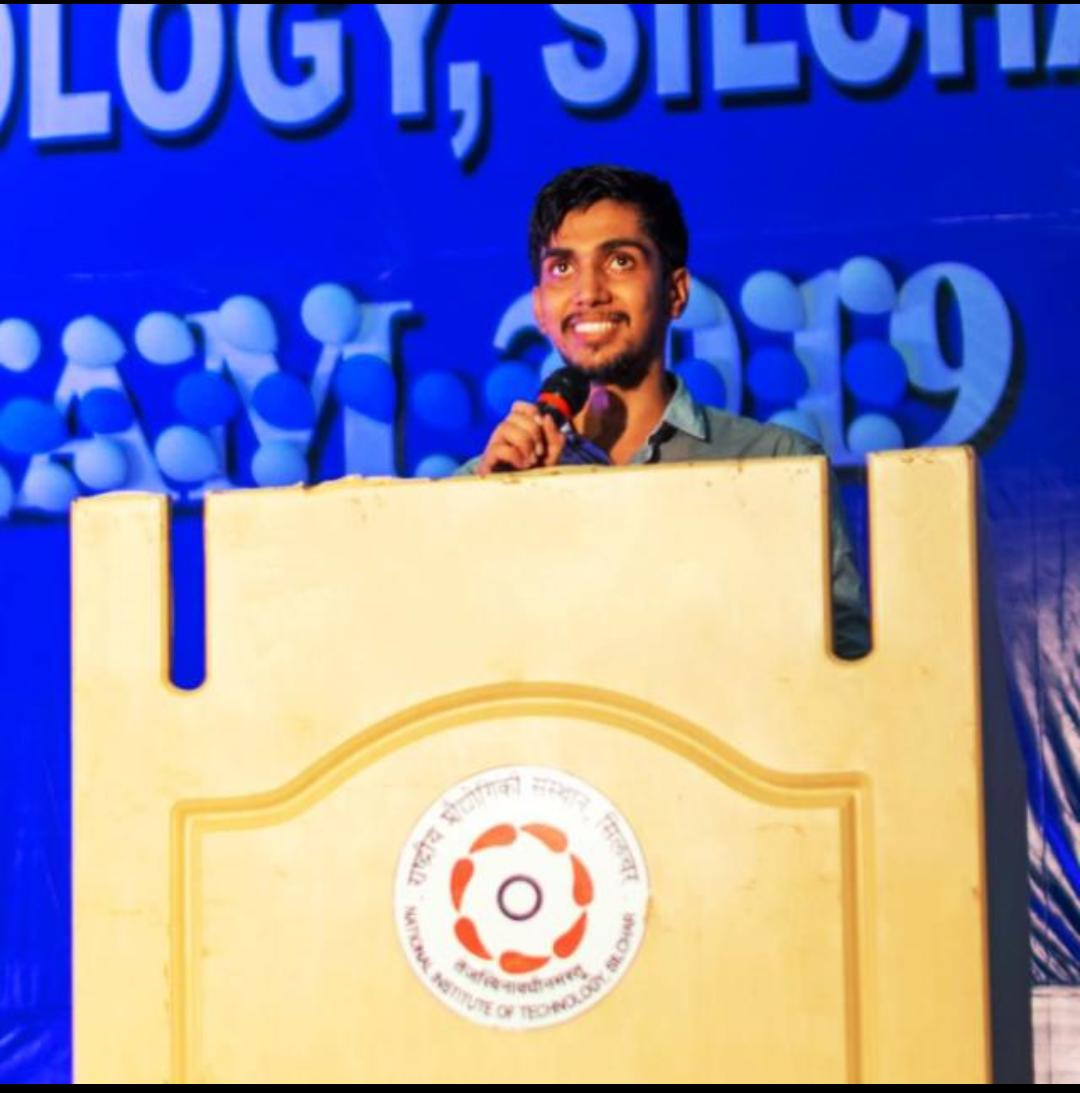
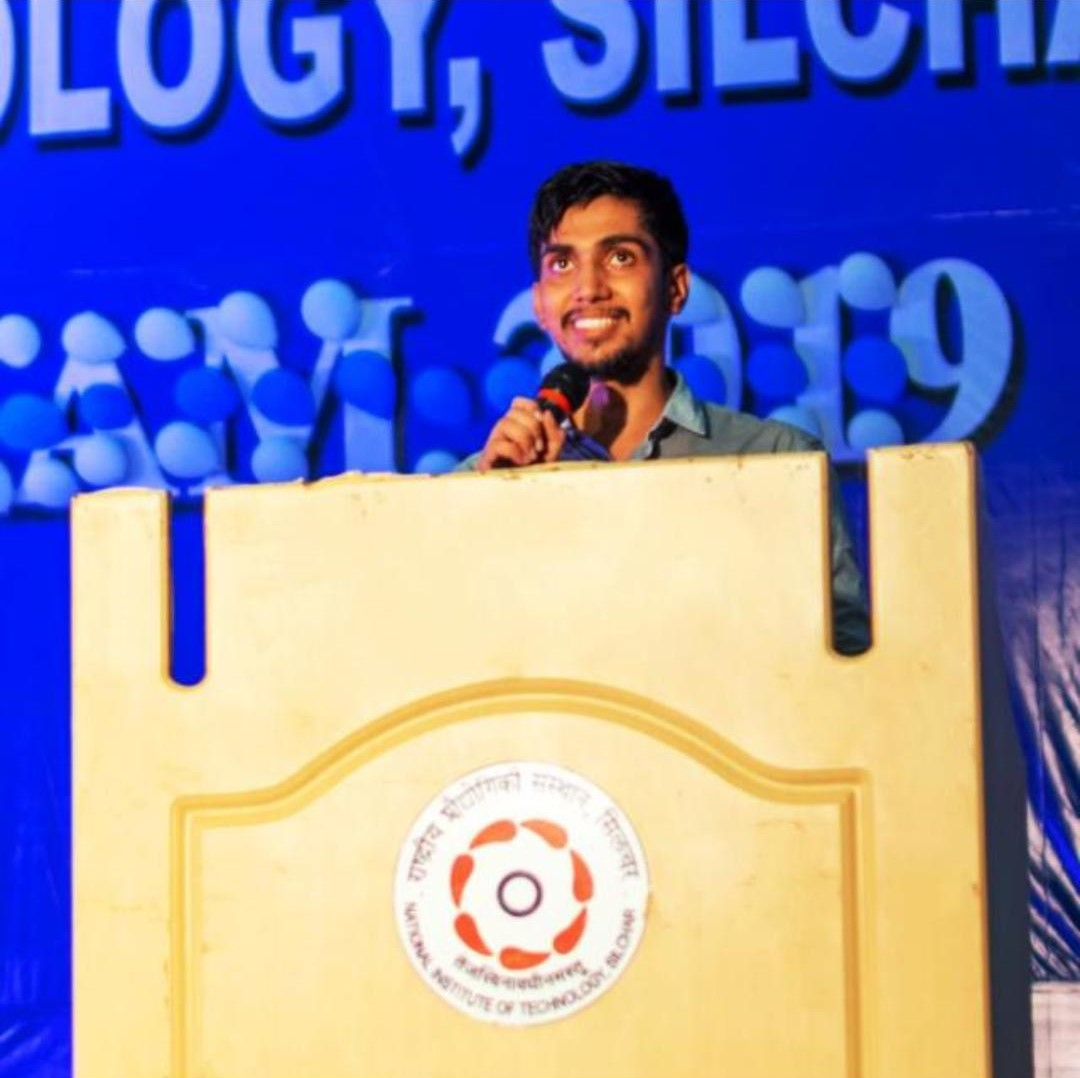
campus

diff --git a/public/stylesheet/campus/campus.css b/public/stylesheet/campus/campus.css
@@ -223,7 +223,7 @@ image {
 .flip-card {
     background-color: transparent;
     width: 300px;
-    height: 350px;
+    height: 340px;
     border: 1px solid #f1f1f1;
     perspective: 1000px;
     /* Remove this if you don't want the 3D effect */
@@ -274,8 +274,9 @@ image {
 
 .flip-card-front img {
     width: 300px;
-    height: 350px;
+    height: 340px;
     border-radius: 10px;
+    object-fit: cover;
 }
 
 
@@ -290,6 +291,10 @@ image {
 
 .flip-card-back h3 {
     margin-top: 20px;
+}
+
+.flip-card-back p {
+    font-size: 22px;
 }
 
 .fa {
